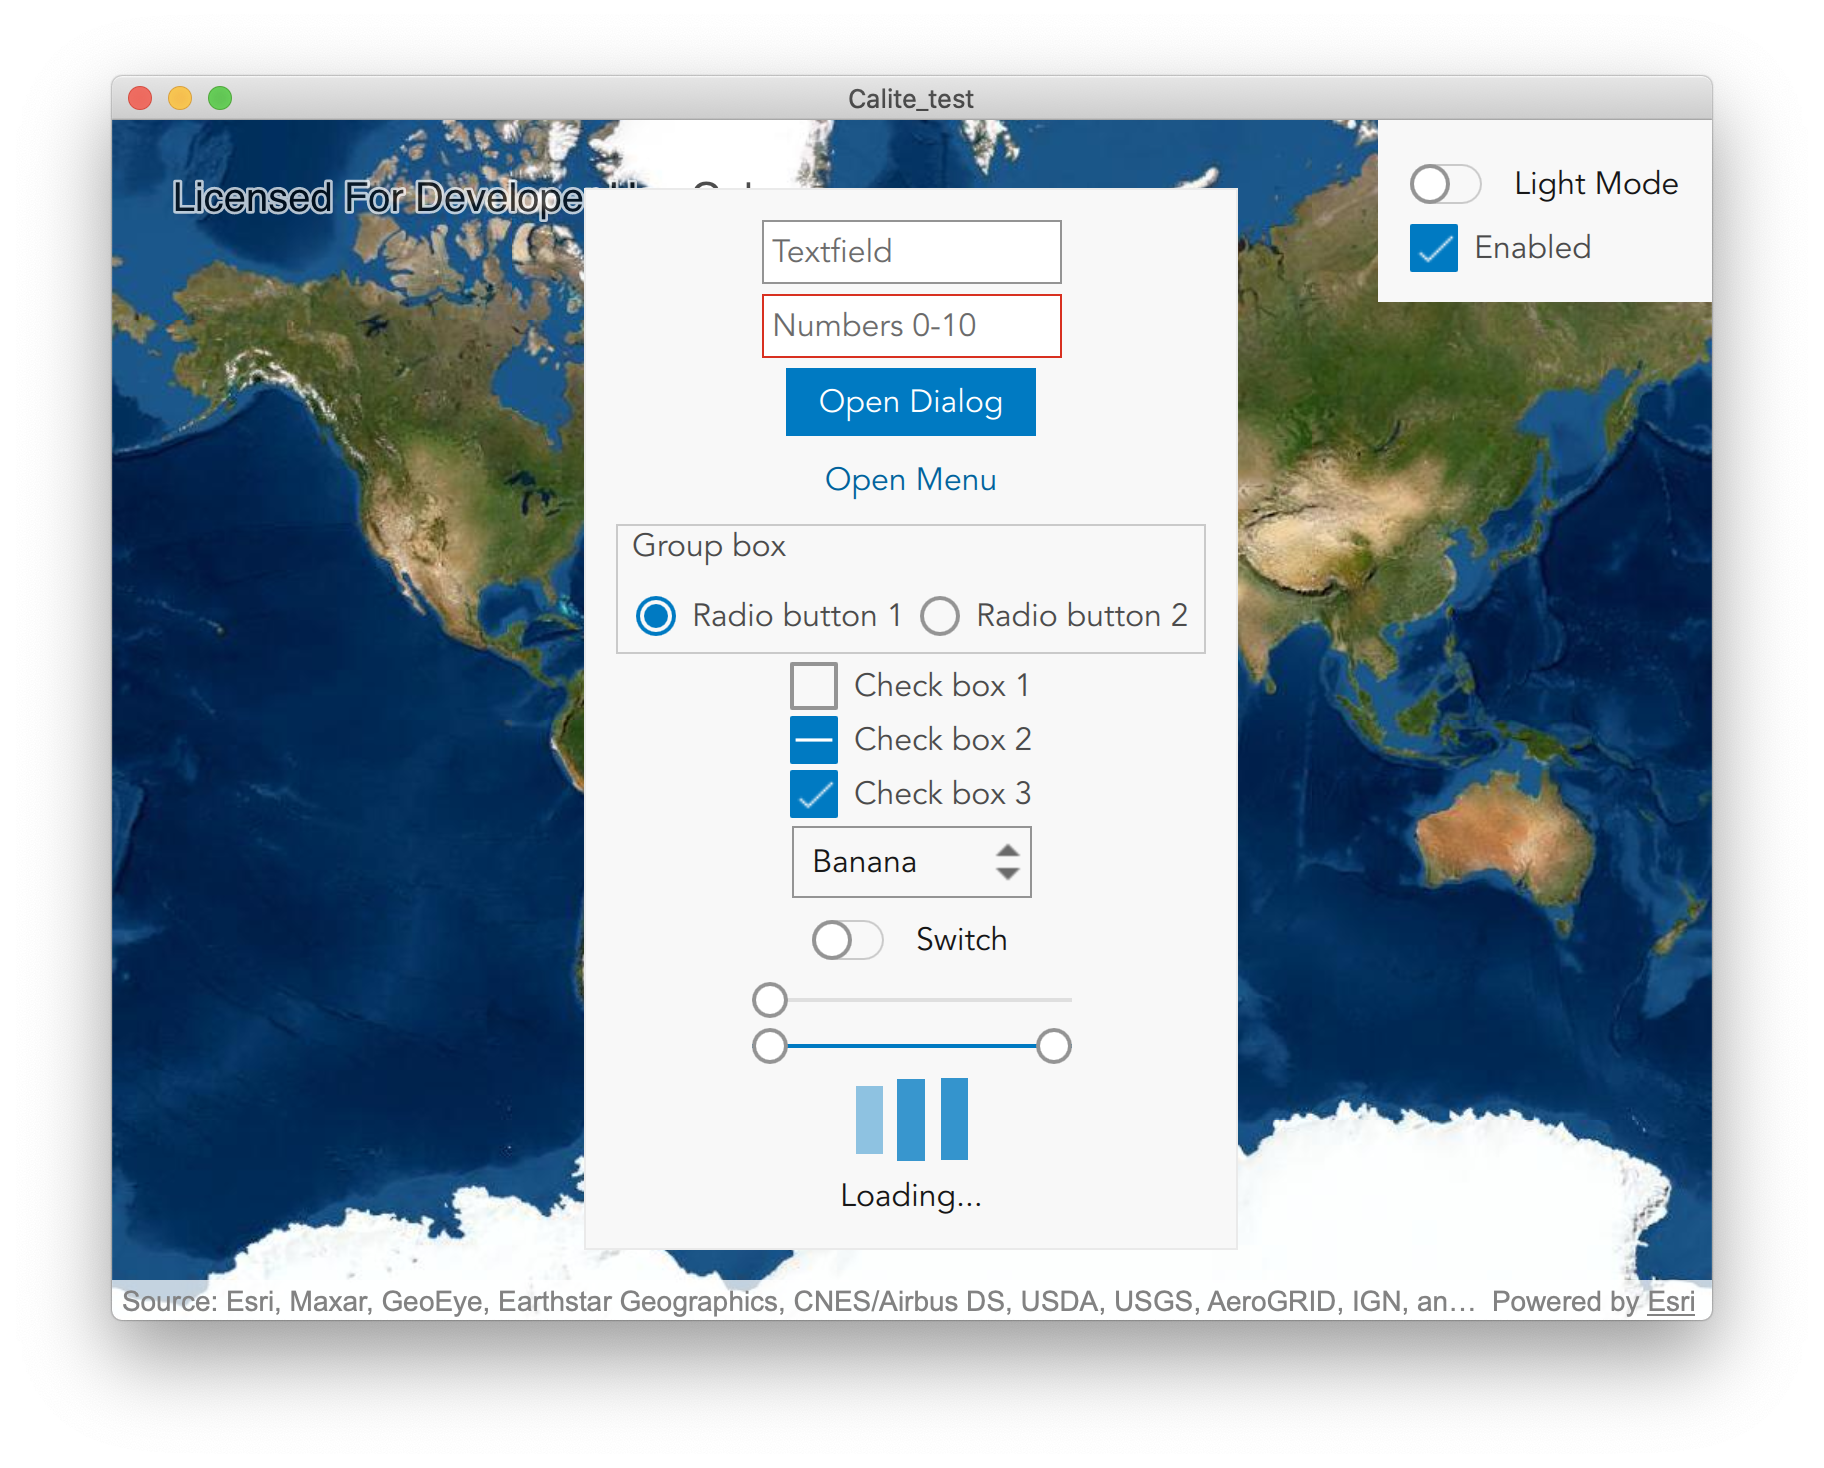
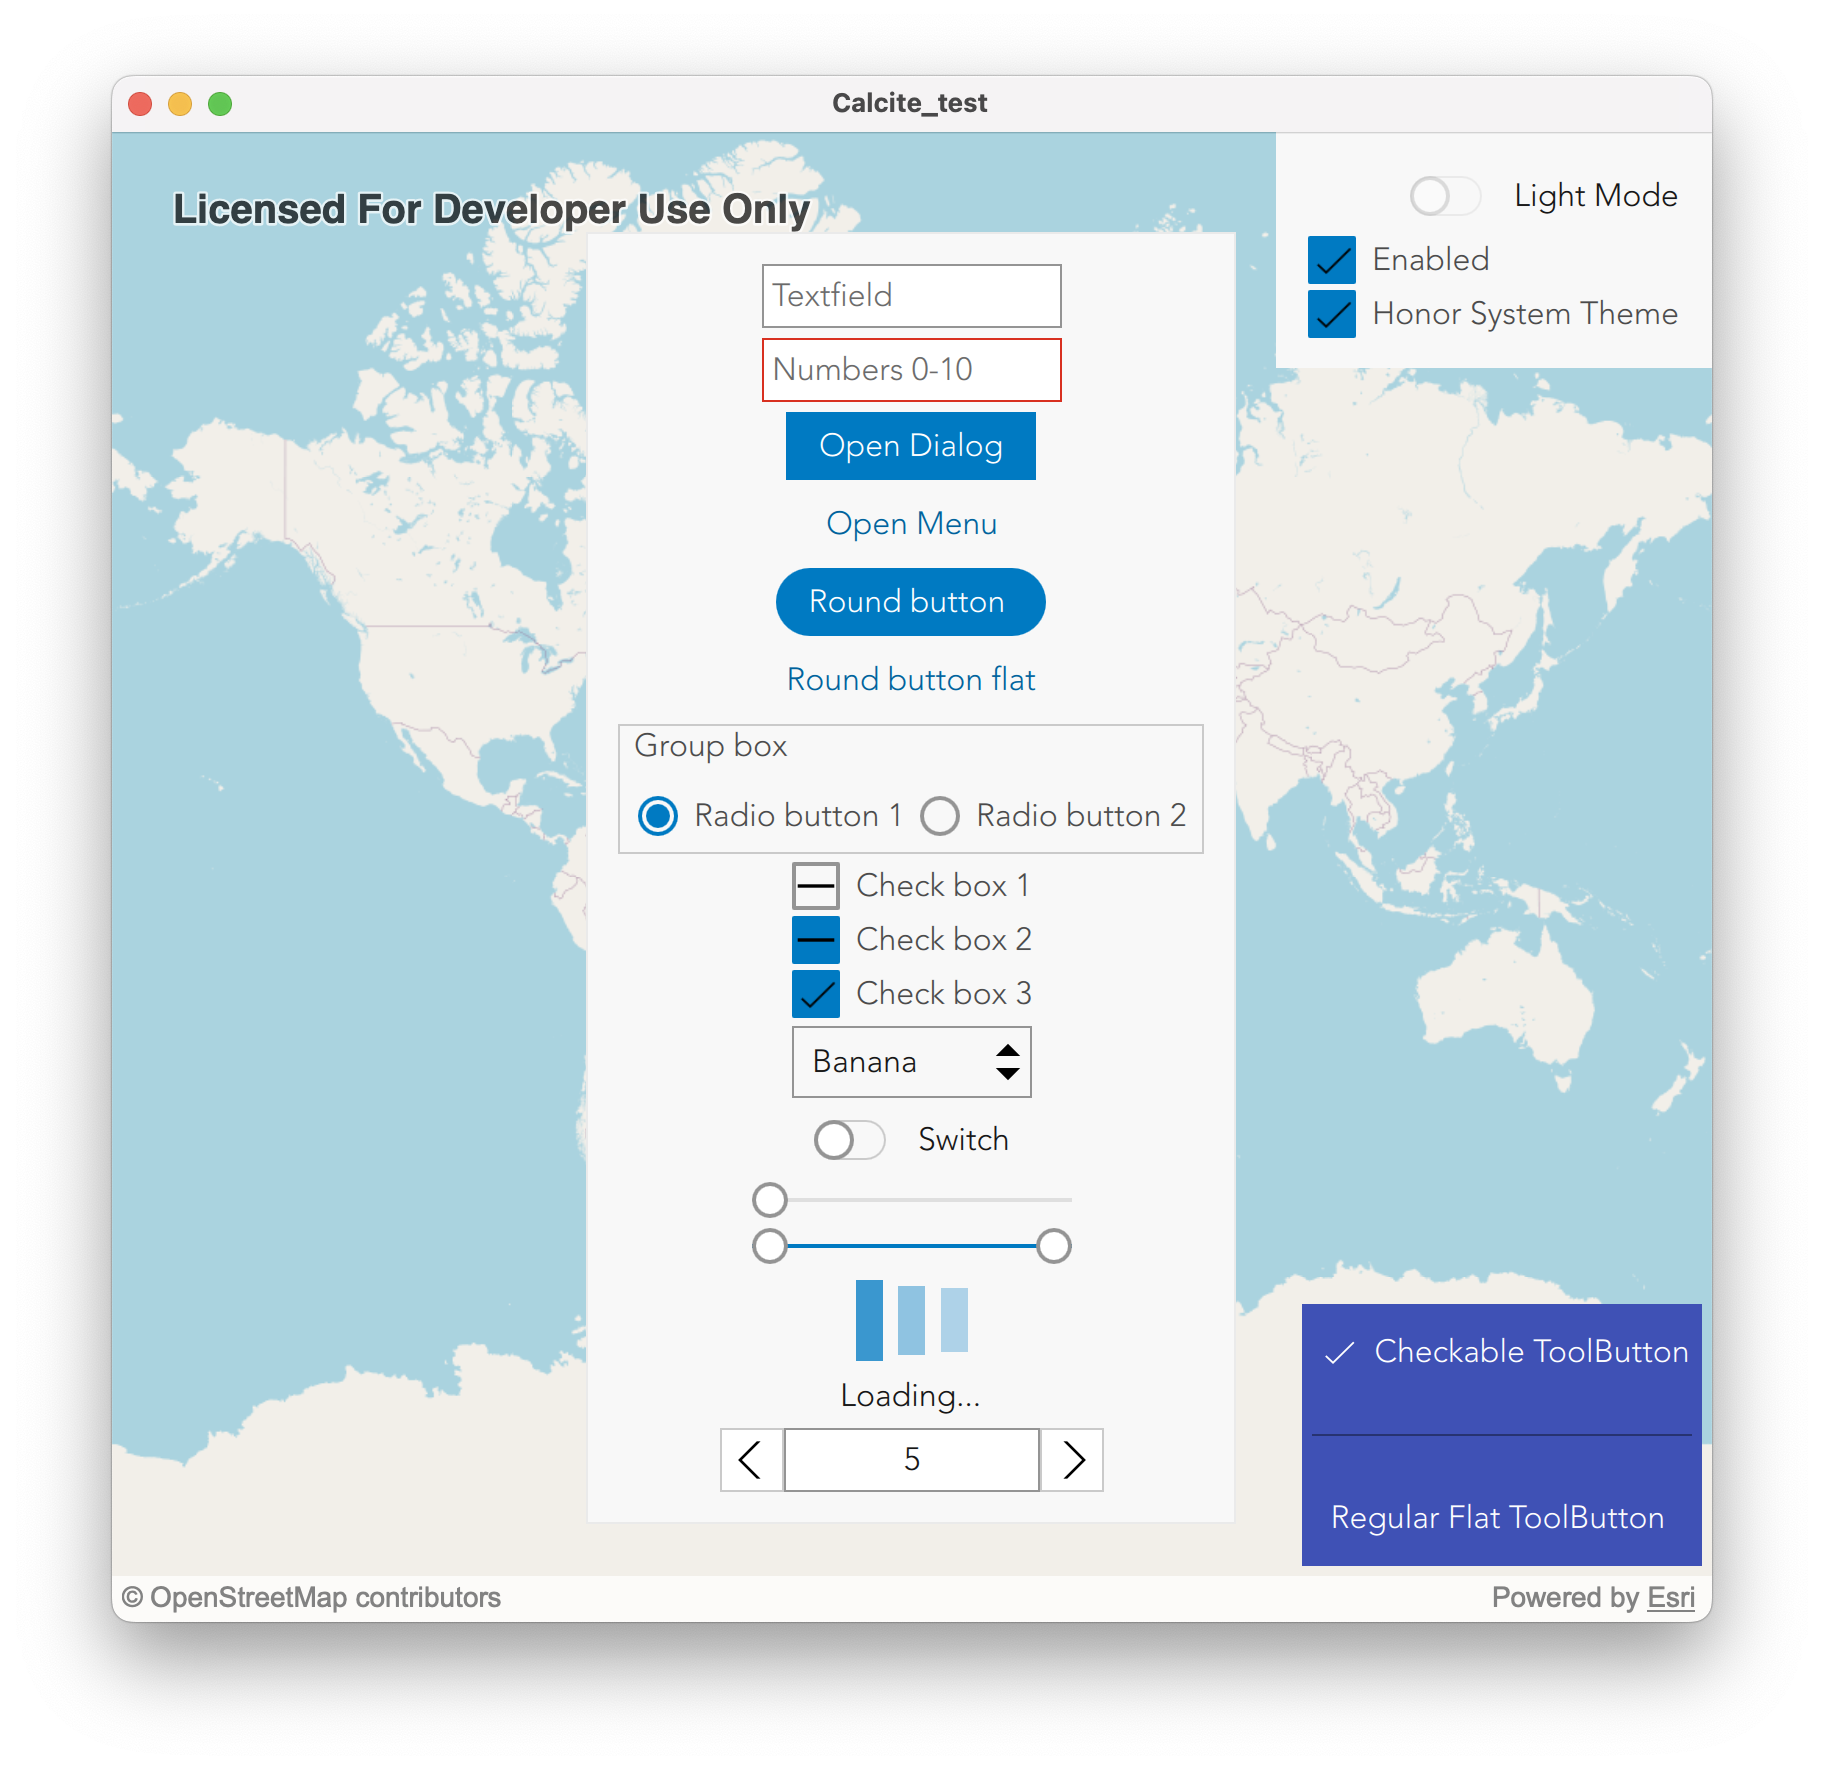
calcite add property to honor system theme. (#715)
* add honorSystemTheme property to calcite as default for calcite light/dark theme.

* update images of example app.

* updated example app to show the new property as well as how it interacts with the existing way of specifying theme.

* removed dark/light mode toggle from this app as the default/preferred way of determining theme should be driven by the system.

* update images again.

* dark/light mode photo update.

* update property name.

diff --git a/calcite/demo/qml/main.qml b/calcite/demo/qml/main.qml
@@ -55,16 +55,38 @@ ApplicationWindow {
                     id: themeSwitch
                     text: checked ? "Dark Mode" : "Light Mode"
                     Layout.alignment: Qt.AlignRight
+                    enabled: !C.Calcite.useSystemTheme
+                    property var selectedTheme: themeSwitch.checked ? C.Calcite.Dark : C.Calcite.Light
+
                     Binding {
                         target: C.Calcite
                         property: "theme"
-                        value: themeSwitch.checked ? C.Calcite.Dark : C.Calcite.Light
+                        value: themeSwitch.enabled ? themeSwitch.selectedTheme : Application.styleHints.colorScheme
                     }
+
+
                 }
                 CheckBox {
                     id: enabler
                     text: "Enabled"
                     checked: true
+                }
+                CheckBox {
+                    id: useSystemThemeCheckBox
+                    text: "Use System Theme"
+                    checked: true
+
+                    Binding {
+                        target: C.Calcite
+                        property: "useSystemTheme"
+                        value: useSystemThemeCheckBox.checked
+                    }
+                    Binding {
+                        target: C.Calcite
+                        property: "theme"
+                        value: useSystemThemeCheckBox.checked ? Application.styleHints.colorScheme :
+                                                          themeSwitch.selectedTheme
+                    }
                 }
             }
         }

diff --git a/calcite/Calcite/Calcite.qml b/calcite/Calcite/Calcite.qml
@@ -26,12 +26,18 @@ import QtQuick
     {Calcite colors and themes}.
  */
 QtObject {
+    // Unknown was added it to more accurately match Application.styleHints.colorScheme
+    // This is an internal implementation detail.
+    // https://doc.qt.io/qt-6/qt.html#ColorScheme-enum
     enum Theme {
-        Light,
-        Dark
-    }
+    Unknown,
+    Light,
+    Dark
+}
 
-    property int theme: Calcite.Theme.Light
+    property int theme: useSystemTheme ? Application.styleHints.colorScheme : Calcite.Theme.Light
+
+    property bool useSystemTheme: true
 
     readonly property color offWhite: "#F8F8F8"
 

diff --git a/uitools/examples/qml/DemoPage.qml b/uitools/examples/qml/DemoPage.qml
@@ -120,15 +120,15 @@ Control {
             onClicked: showToolsButtonPressed()
             enabled: !apiKeyPopup.visible
         }
-        Switch {
-            text: "Dark Mode"
-            checked: C.Calcite.theme === C.Calcite.Theme.Dark
-            onCheckedChanged: C.Calcite.theme = checked ? C.Calcite.Theme.Dark : C.Calcite.Theme.Light
+
+        Item {
+            Layout.fillWidth: true
         }
 
         Item {
             Layout.fillWidth: true
         }
+
         RadioButton {
             Layout.topMargin: 5
             Layout.alignment: Qt.AlignRight
